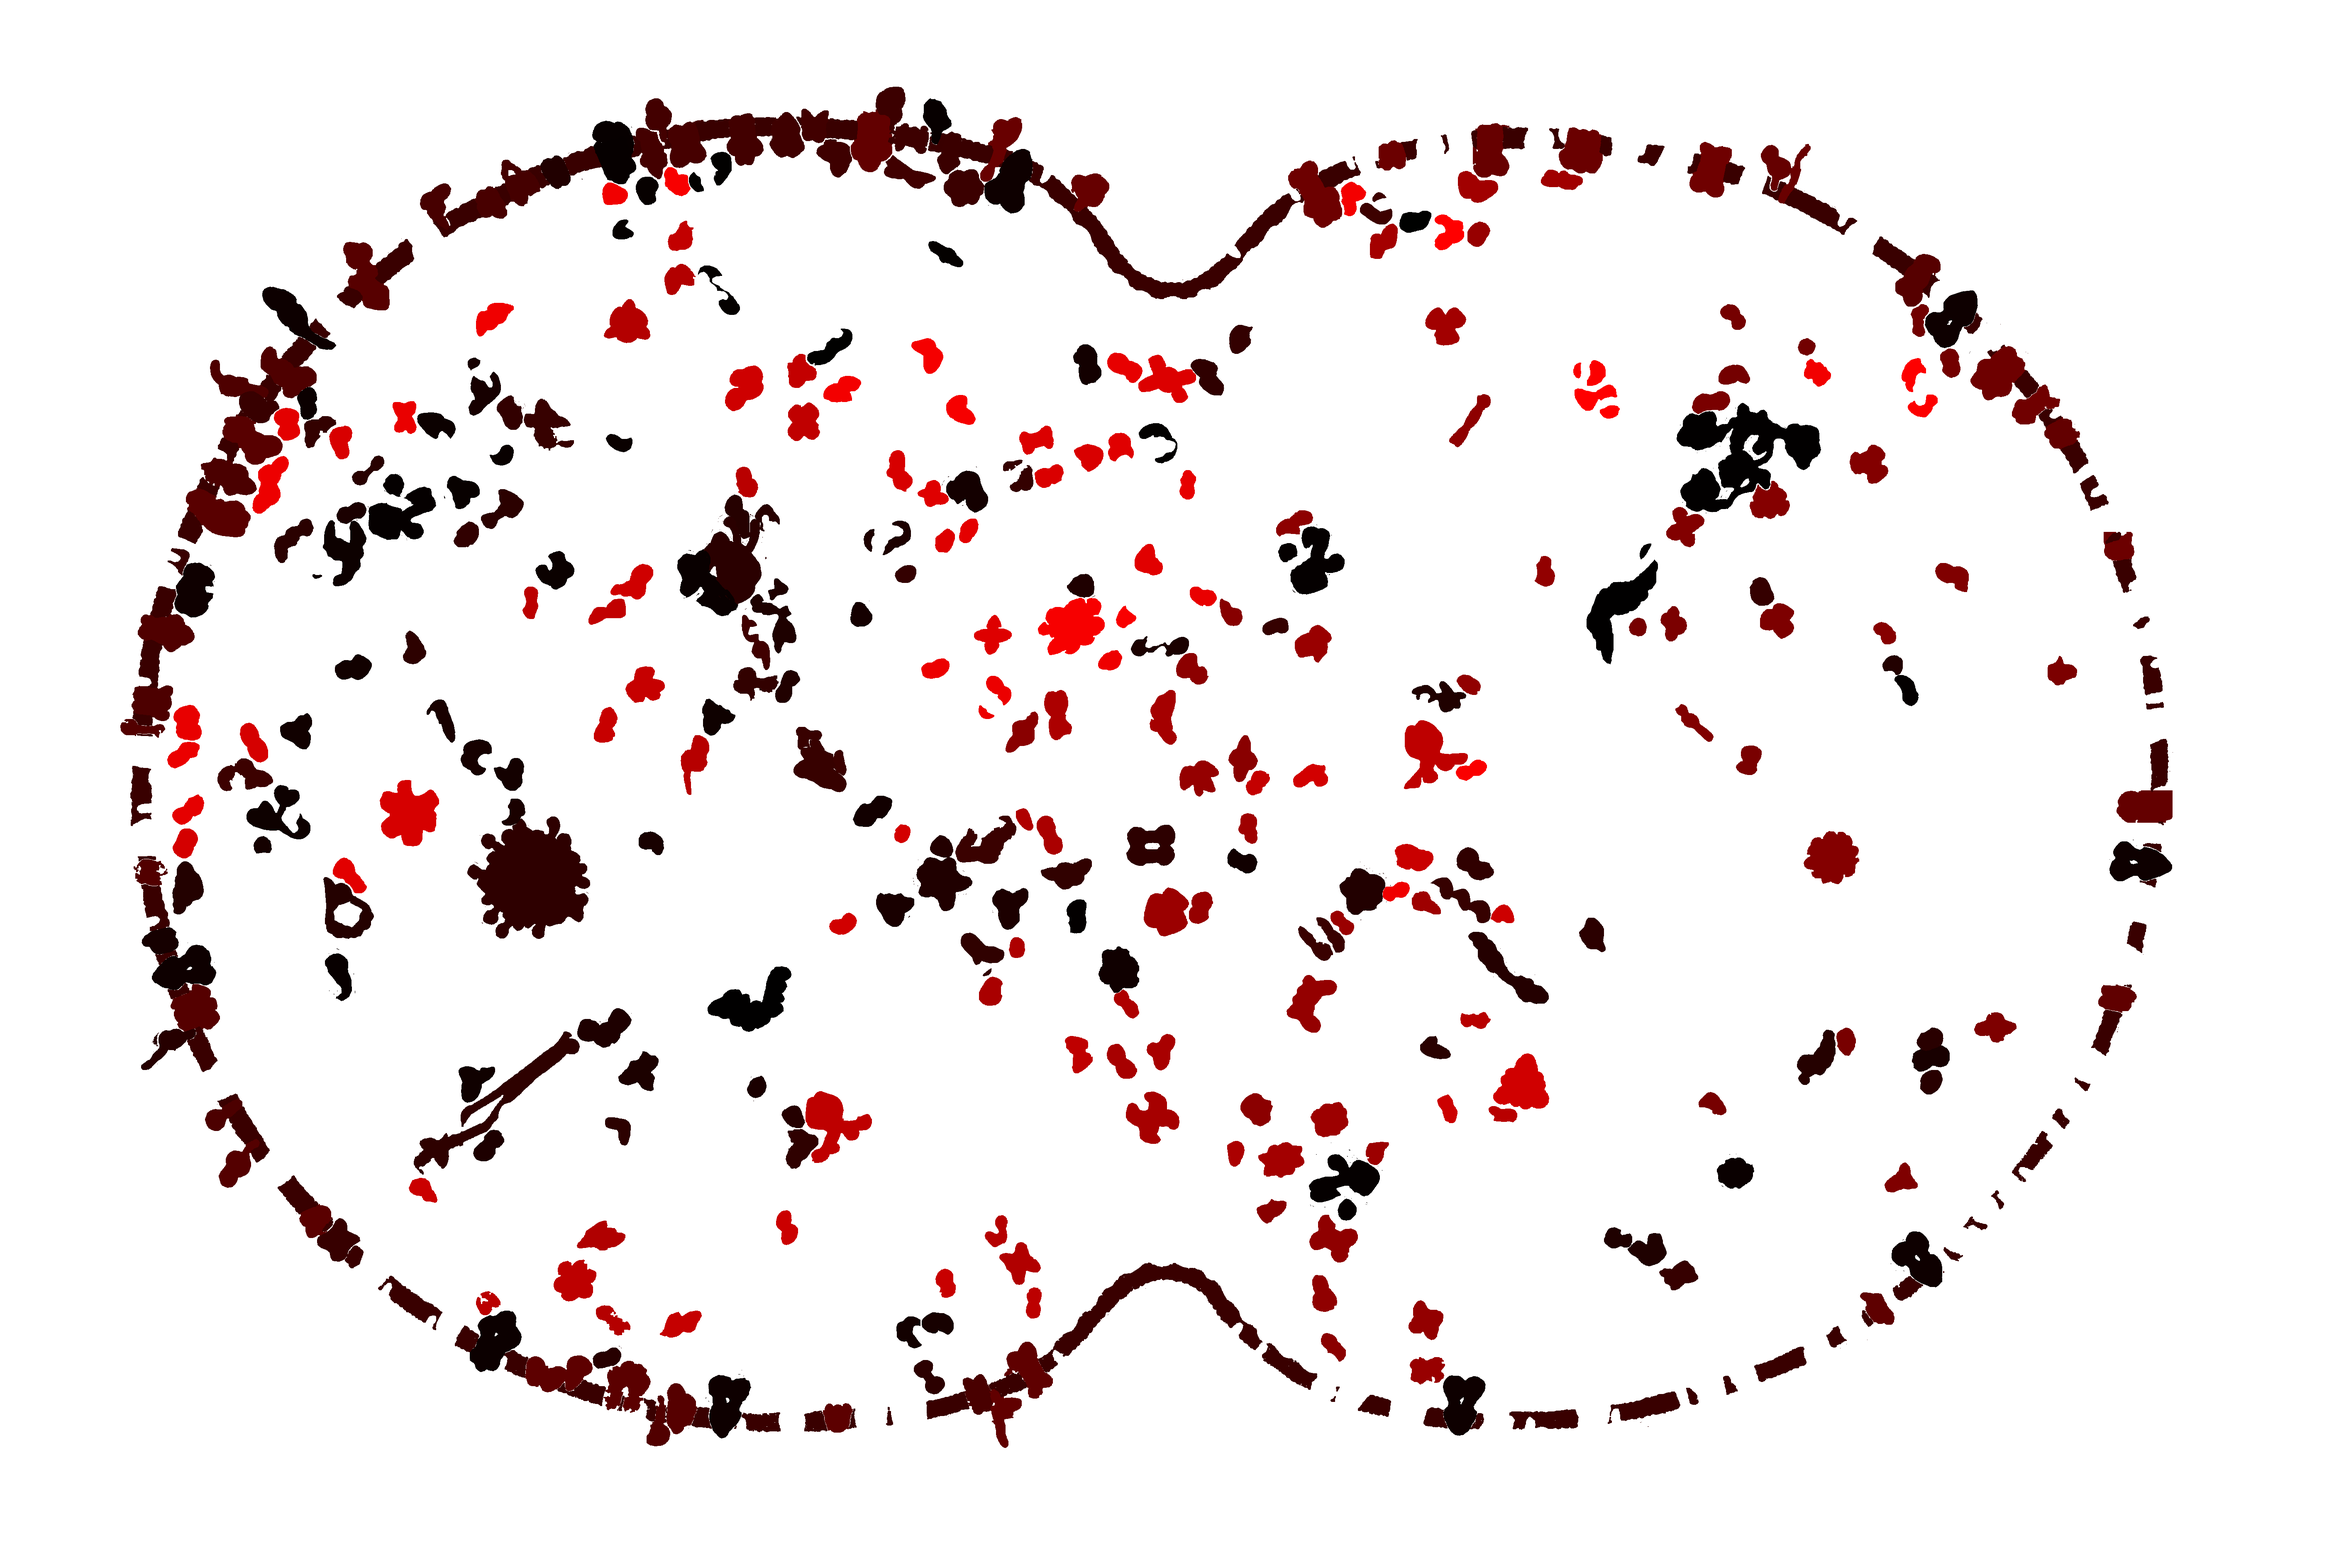
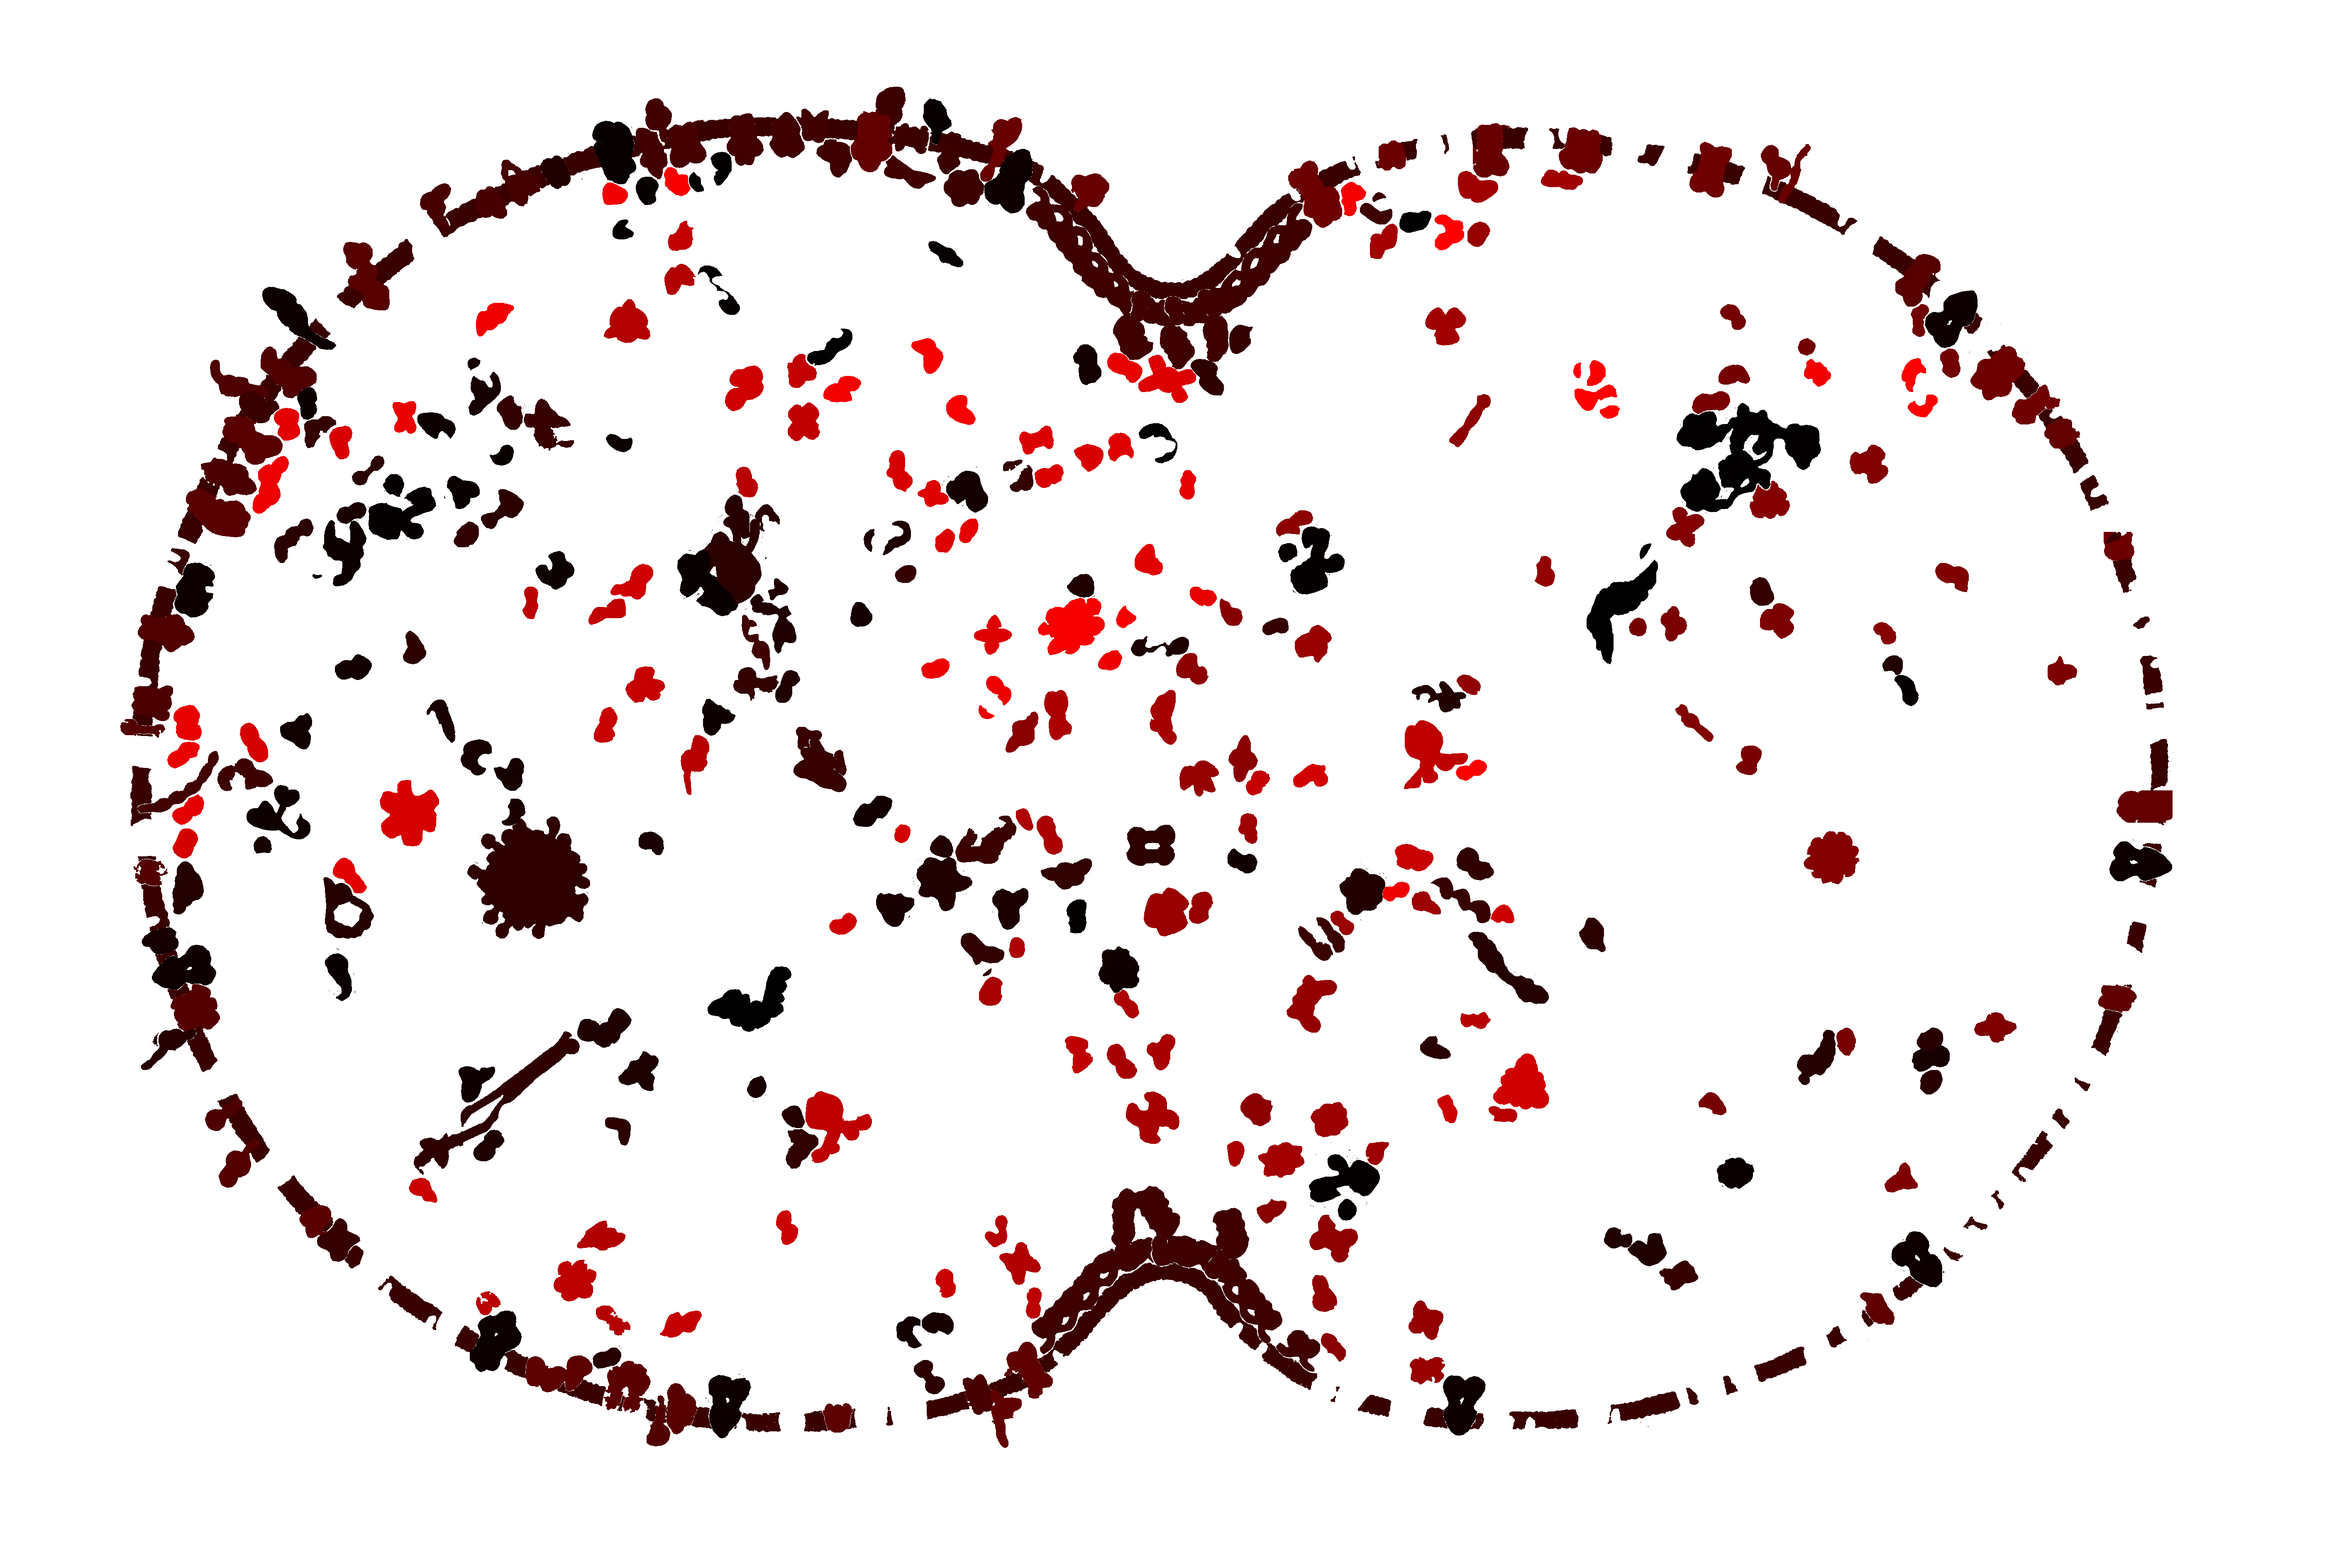
Add 4 products (0239, 0521, 0522, 0523)
SepF, FtsZ, and FtsA form the cell-division ring, each depicted as many
scattered bead-like subunits (finished cutouts, filtered to drop small
stray specks while keeping the real instances). 0239 is the first product
of a new green color family, single clean component.

diff --git a/data/products.js b/data/products.js
@@ -4244,5 +4244,57 @@ const PRODUCTS = [
     links: [
       { label: "SynWiki", url: "https://synwiki.uni-goettingen.de/" }
     ]
+  },
+  {
+    id: "0521",
+    displayName: "SepF",
+    fullName: "Cell division protein",
+    cutout: "cutouts/3A-521.png",
+    loci: [
+      { locusTag: "JCVISYN3A_0521", gene: "sepF", start: 330983, end: 331399, strand: "-" }
+    ],
+    description: "",
+    links: [
+      { label: "SynWiki", url: "https://synwiki.uni-goettingen.de/" }
+    ]
+  },
+  {
+    id: "0522",
+    displayName: "FtsZ",
+    fullName: "Cell division protein",
+    cutout: "cutouts/3A-522.png",
+    loci: [
+      { locusTag: "JCVISYN3A_0522", gene: "ftsZ", start: 331411, end: 332568, strand: "-" }
+    ],
+    description: "",
+    links: [
+      { label: "SynWiki", url: "https://synwiki.uni-goettingen.de/" }
+    ]
+  },
+  {
+    id: "0523",
+    displayName: "FtsA",
+    fullName: "Cell division protein",
+    cutout: "cutouts/3A-523.png",
+    loci: [
+      { locusTag: "JCVISYN3A_0523", gene: "ftsA", start: 332683, end: 333843, strand: "-" }
+    ],
+    description: "",
+    links: [
+      { label: "SynWiki", url: "https://synwiki.uni-goettingen.de/" }
+    ]
+  },
+  {
+    id: "0239",
+    displayName: "Uncharacterized protein",
+    fullName: "Uncharacterized protein",
+    cutout: "cutouts/3A-239.png",
+    loci: [
+      { locusTag: "JCVISYN3A_0239", gene: null, start: 147459, end: 149246, strand: "+" }
+    ],
+    description: "",
+    links: [
+      { label: "SynWiki", url: "https://synwiki.uni-goettingen.de/" }
+    ]
   }
 ];

diff --git a/data/swatch-colors.js b/data/swatch-colors.js
@@ -318,4 +318,8 @@ const SWATCH_COLORS = {
   "0840": "rgb(236, 144, 66)",
   "0859": "rgb(227, 131, 91)",
   "0350": "rgb(210, 143, 91)",
+  "0521": "rgb(96, 158, 101)",
+  "0522": "rgb(74, 119, 78)",
+  "0523": "rgb(133, 171, 94)",
+  "0239": "rgb(106, 166, 108)",
 };
